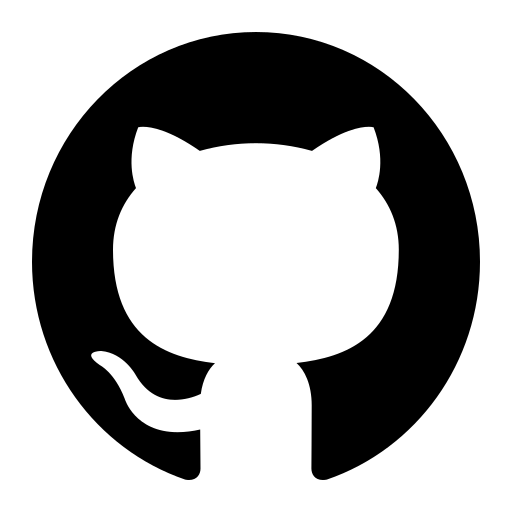
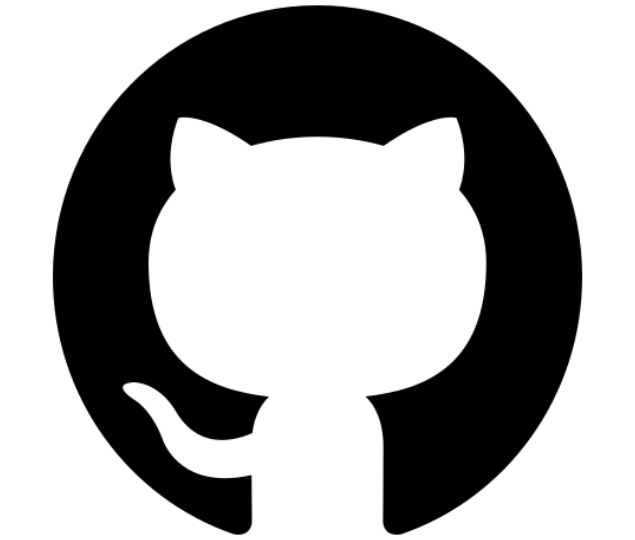
adicionados icones do github e linkedin na página integrantes

diff --git a/src/routes/Integrantes/index.tsx b/src/routes/Integrantes/index.tsx
@@ -2,7 +2,8 @@ import { useEffect } from 'react';
 import img_sabelli from '../../img/victor-sabelli.jpg'
 import img_kuba from '../../img/rafael-kubagawa-ramos.jpg'
 import img_soteras from '../../img/vinicius-soteras-braga.jpg'
-import github from  '../../img/icones/github2.svg'
+import github from '../../img/icones/github.png'
+import linkedin from '../../img/icones/linkedin-og.png'
 
 
 export default function Integrantes() {
@@ -14,43 +15,55 @@ export default function Integrantes() {
     <main className="bg-white text-[#194737]">
       <div className="max-w-6xl mx-auto px-4 py-10">
         <section id="quem-somos" className="bg-white text-[#194737] px-4 py-10">
-  <h1 className="text-3xl font-bold text-center mb-12">Quem Somos</h1>
+          <h1 className="text-3xl font-bold text-center mb-12">Quem Somos</h1>
 
-  <div className="grid grid-cols-1 md:grid-cols-3 gap-8">
-    <div className="flex flex-col items-center text-center">
-      <img src={img_sabelli} alt="Foto de Victor Sabelli Rocha Batista usando máscara segurando celular tirando foto no espelho - Jovem branco com cabelo e olhos castanhos" className="w-60 h-80 object-cover rounded-full shadow-md mb-4" />
-      <h2 className="text-xl font-semibold">Victor Sabelli Rocha Batista</h2>
-      <p>RM - 566224</p>
-      <p>1TDSPO</p>
-      <div className="mt-2 space-x-2">
-        <a href="https://www.linkedin.com/in/victorsabelli/" target="_blank" className="bg-[#76b99d] text-[#194737] px-3 py-1 rounded hover:bg-white transition">LinkedIn</a>
-        <a href="https://github.com/Sabelli" target="_blank" className="bg-[#76b99d] text-[#194737] px-3 py-1 rounded hover:bg-white transition">GitHub</a>
-      </div>
-    </div>
+          <div className="grid grid-cols-1 md:grid-cols-3 gap-8">
+            <div className="flex flex-col items-center text-center">
+              <img src={img_sabelli} alt="Foto de Victor Sabelli Rocha Batista usando máscara segurando celular tirando foto no espelho - Jovem branco com cabelo e olhos castanhos" className="w-60 h-80 object-cover rounded-full shadow-md mb-4" />
+              <h2 className="text-xl font-semibold">Victor Sabelli Rocha Batista</h2>
+              <p>RM - 566224</p>
+              <p>1TDSPO</p>
+              <div className="mt-2 space-x-2 flex">
+                <a href="https://www.linkedin.com/in/victorsabelli/" target="_blank">
+                  <img src={linkedin} alt="Icone do Linkedin" className='w-20 h-auto' />
+                </a>
+                <a href="https://github.com/Sabelli" target="_blank">
+                  <img src={github} alt="icone do github" className='w-20 h-auto' />
+                </a>
+              </div>
+            </div>
 
-    <div className="flex flex-col items-center text-center">
-      <img src={img_soteras} alt="Foto de Vinicius Soteras Braga sorrindo para a câmera - Jovem branco com cabelo e olhos castanhos" className="w-60 h-80 object-cover rounded-full shadow-md mb-4" />
-      <h2 className="text-xl font-semibold">Vinicius Soteras Braga</h2>
-      <p>RM - 566230</p>
-      <p>1TDSPO</p>
-      <div className="mt-2 space-x-2">
-        <a href="https://www.linkedin.com/in/vinicius-soteras-braga-60335516a/" target="_blank" className="bg-[#76b99d] text-[#194737] px-3 py-1 rounded hover:bg-white transition">LinkedIn</a>
-        <a href="https://github.com/BragaSoterasVinicius" target="_blank" className="bg-[#76b99d] text-[#194737] px-3 py-1 rounded hover:bg-white transition">GitHub</a>
-      </div>
-    </div>
+            <div className="flex flex-col items-center text-center">
+              <img src={img_soteras} alt="Foto de Vinicius Soteras Braga sorrindo para a câmera - Jovem branco com cabelo e olhos castanhos" className="w-60 h-80 object-cover rounded-full shadow-md mb-4" />
+              <h2 className="text-xl font-semibold">Vinicius Soteras Braga</h2>
+              <p>RM - 566230</p>
+              <p>1TDSPO</p>
+              <div className="mt-2 space-x-2 flex">
+                <a href="https://www.linkedin.com/in/vinicius-soteras-braga-60335516a/" target="_blank">
+                  <img src={linkedin} alt="Icone do Linkedin" className='w-20 h-auto' />
+                </a>
+                <a href="https://github.com/BragaSoterasVinicius" target="_blank">
+                  <img src={github} alt="icone do github" className='w-20 h-auto' />
+                </a>
+              </div>
+            </div>
 
-    <div className="flex flex-col items-center text-center">
-      <img src={img_kuba} alt="Foto de Rafael Kubagawa Ramos olhando para a câmera - Jovem branco com cabelo preto e olhos castanhos" className="w-60 h-80 object-cover rounded-full shadow-md mb-4" />
-      <h2 className="text-xl font-semibold">Rafael Kubagawa Ramos</h2>
-      <p>RM - 565572</p>
-      <p>1TDSPO</p>
-      <div className="mt-2 space-x-2">
-        <a href="https://www.linkedin.com/in/rafael-kubagawa-ramos-243896330" target="_blank" className="bg-[#76b99d] text-[#194737] px-3 py-1 rounded hover:bg-white transition">LinkedIn</a>
-        <a href="https://github.com/Rafaelkubagawa" target="_blank" className="bg-[#76b99d] text-[#194737] px-3 py-1 rounded hover:bg-white transition">GitHub</a>
-      </div>
-    </div>
-  </div>
-</section>
+            <div className="flex flex-col items-center text-center">
+              <img src={img_kuba} alt="Foto de Rafael Kubagawa Ramos olhando para a câmera - Jovem branco com cabelo preto e olhos castanhos" className="w-60 h-80 object-cover rounded-full shadow-md mb-4" />
+              <h2 className="text-xl font-semibold">Rafael Kubagawa Ramos</h2>
+              <p>RM - 565572</p>
+              <p>1TDSPO</p>
+              <div className="mt-2 space-x-2 flex">
+                <a href="https://www.linkedin.com/in/rafael-kubagawa-ramos-243896330" target="_blank">
+                  <img src={linkedin} alt="Icone do Linkedin" className='w-20 h-auto' />
+                </a>
+                <a href="https://github.com/Rafaelkubagawa" target="_blank">
+                  <img src={github} alt="icone do github" className='w-20 h-auto' />
+                </a>
+              </div>
+            </div>
+          </div>
+        </section>
 
       </div>
     </main>
